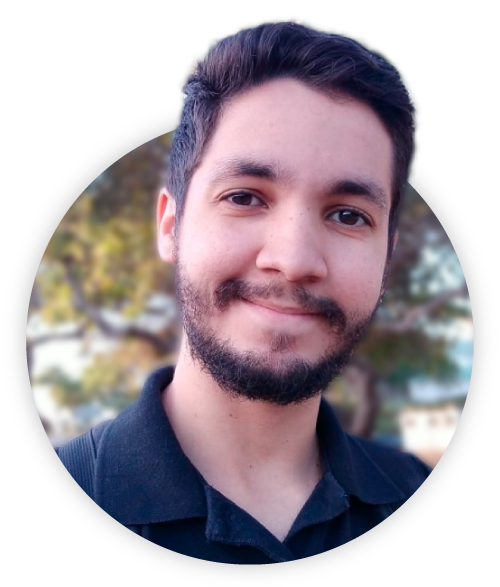
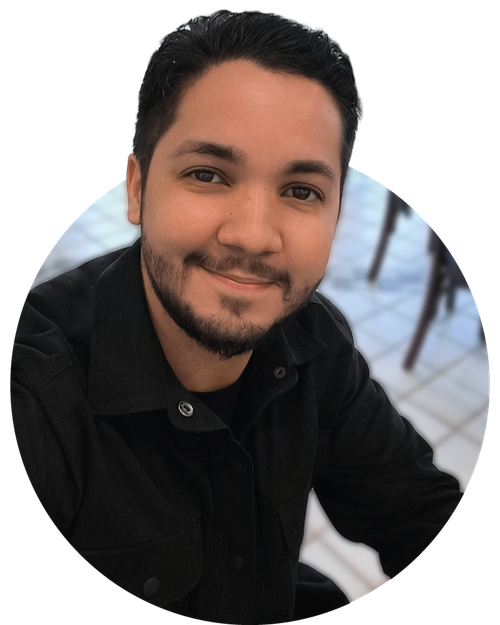
feat: foto nova no Sobre e na prévia de compartilhamento
Troca a foto pela versão mais atual enviada pelo Vinicius, em WebP no Sobre e em PNG
na prévia de compartilhamento (Open Graph), com as medidas novas (500 x 625).

Claude-Session: https://claude.ai/code/session_013oARhF3QvN7ebq52ddR9de

diff --git a/src/components/Sobre/Sobre.tsx b/src/components/Sobre/Sobre.tsx
@@ -84,7 +84,7 @@ export default function Sobre({ scrollToSection }: SobreProps) {
                             }}
                             viewport={{ amount: 0.3 }}
                         >
-                            <Image src="/sobre/vinicius.webp" alt={t.sobre.foto} width={400} height={400} />
+                            <Image src="/sobre/vinicius.webp" alt={t.sobre.foto} width={400} height={500} />
                         </motion.div>
 
                         <motion.div

diff --git a/src/app/layout.tsx b/src/app/layout.tsx
@@ -43,7 +43,7 @@ export const metadata: Metadata = {
     siteName: "Vinicius Medeiros",
     title: "Vinicius Medeiros | Desenvolvedor Full Stack",
     description,
-    images: [{ url: "/sobre/vinicius.png", width: 500, height: 587, alt: "Vinicius Medeiros" }],
+    images: [{ url: "/sobre/vinicius.png", width: 500, height: 625, alt: "Vinicius Medeiros" }],
   },
   twitter: {
     card: "summary",
